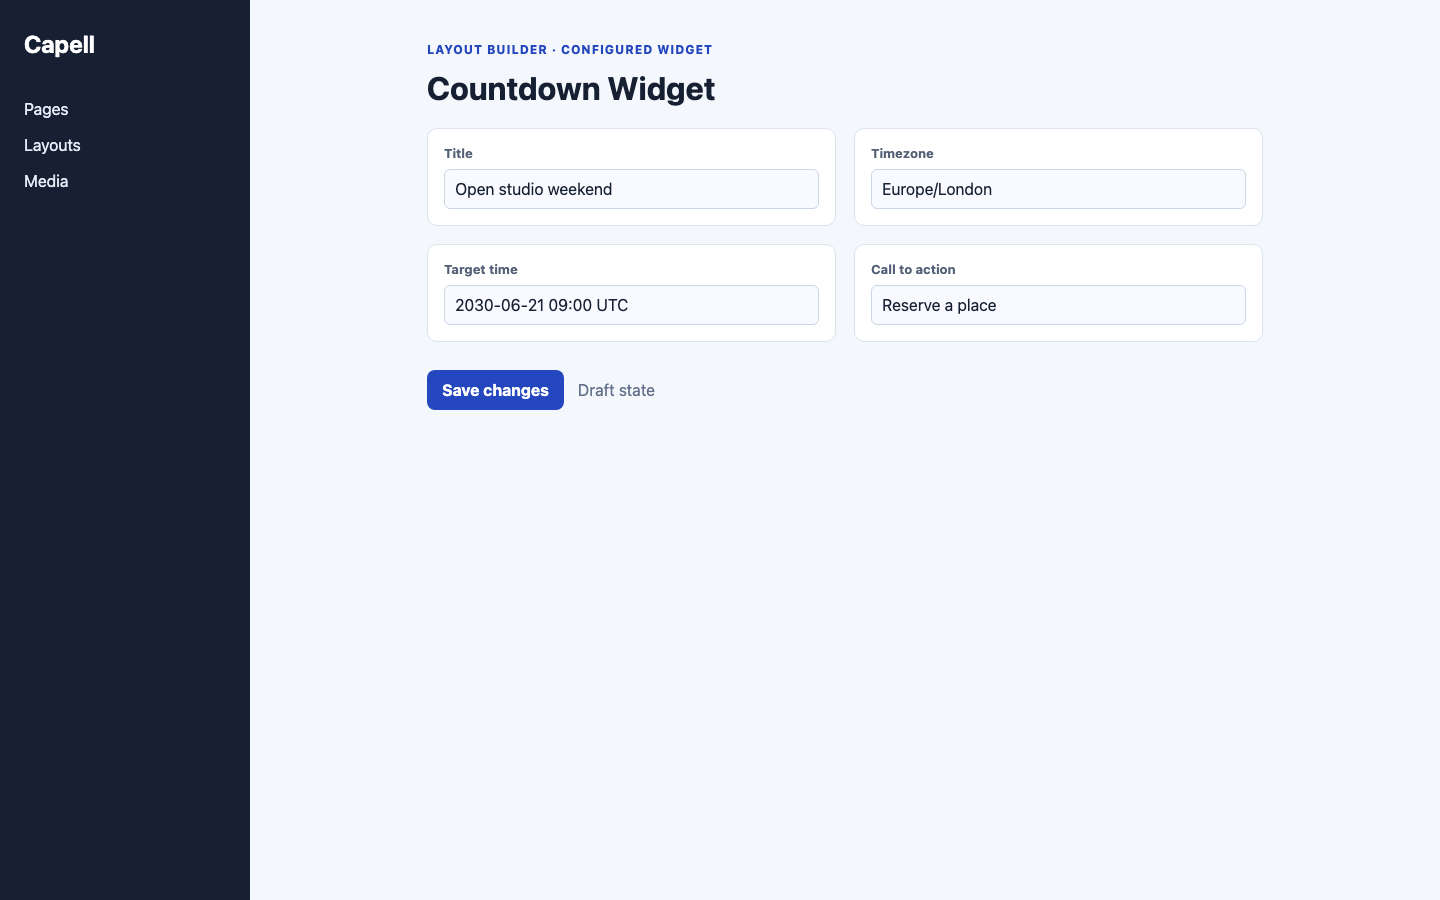
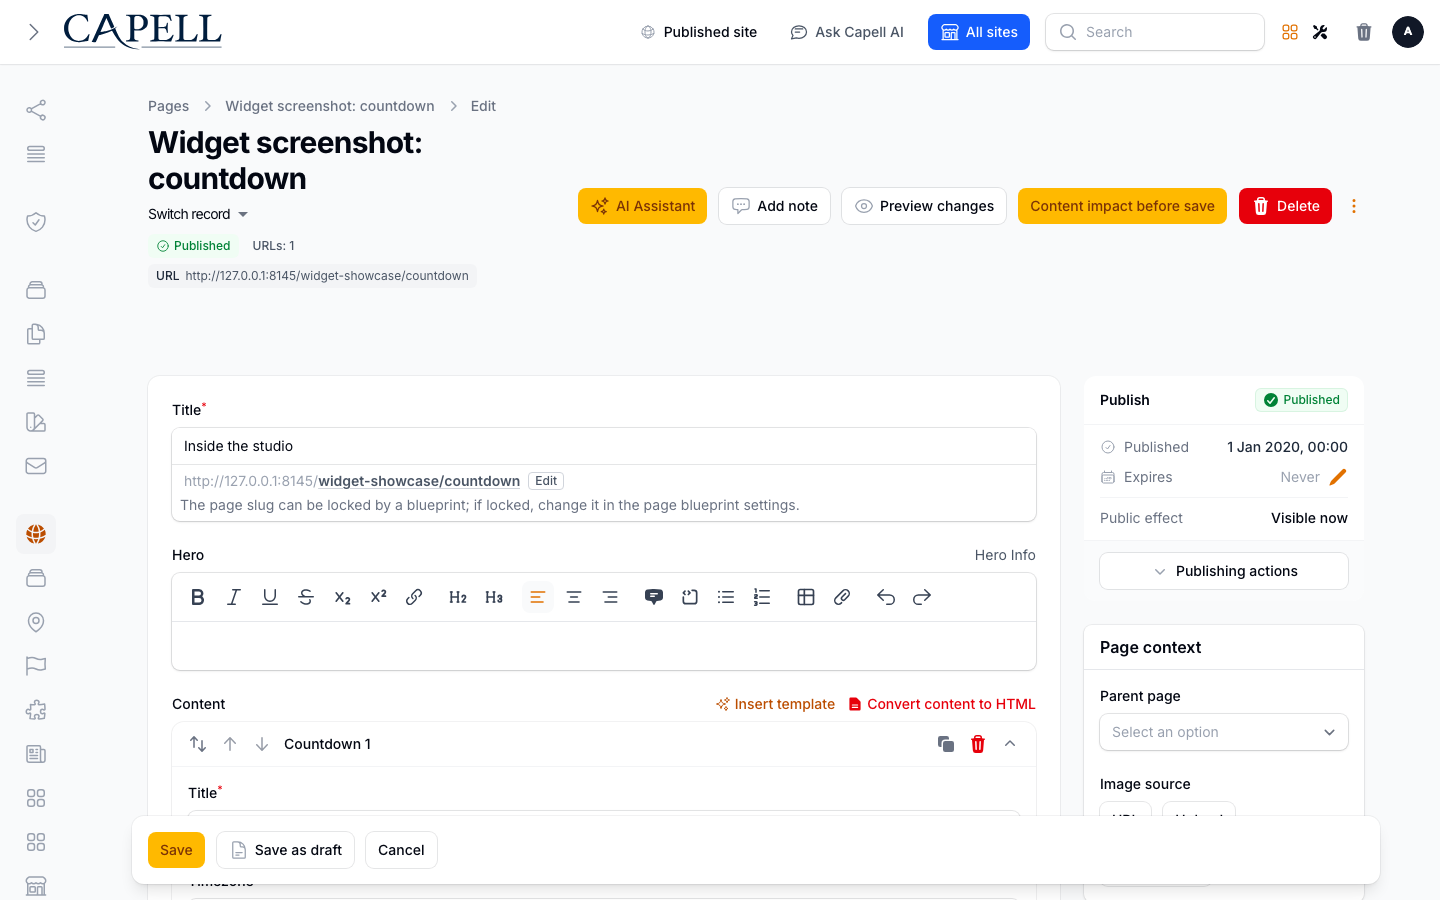
Release v1.1.0-beta.43

diff --git a/resources/dist/widget.js b/resources/dist/widget.js
@@ -1,4 +1,4 @@
-document.querySelectorAll('[data-capell-countdown]').forEach((root) => {
+document.querySelectorAll('[data-capell-widget-countdown]').forEach((root) => {
     const target = Date.parse(root.dataset.target)
     let announcedMinute = null
     let timer

diff --git a/tests/Feature/WidgetCountdownTest.php b/tests/Feature/WidgetCountdownTest.php
@@ -1,10 +1,14 @@
 <?php
 
 declare(strict_types=1);
+use Capell\Frontend\Actions\AssertPublicHtmlContainsNoAuthoringSurfaceAction;
+use Capell\Frontend\Support\Security\PublicHtmlSafetyInspector;
 use Capell\WidgetCountdown\Data\CountdownInputData;
+use Capell\WidgetCountdown\Data\CountdownRenderData;
 use Capell\WidgetCountdown\Health\WidgetCountdownHealthCheck;
 use Capell\WidgetCountdown\Providers\WidgetCountdownServiceProvider;
 use Illuminate\Validation\ValidationException;
+use Symfony\Component\HttpFoundation\Response;
 
 beforeEach(function (): void {
     $this->app->register(WidgetCountdownServiceProvider::class);
@@ -13,5 +17,28 @@ it('registers healthy package surfaces', function (): void {
     expect(WidgetCountdownHealthCheck::passed())->toBeTrue();
 });
 it('requires an IANA timezone normalized target and safe cta', function (): void {
-    expect(fn () => CountdownInputData::validateAndCreate(['title' => 'Launch', 'timezone' => 'Mars/Olympus', 'targetUtc' => 'tomorrow', 'expiredLabel' => 'Live', 'ctaUrl' => 'javascript:alert(1)']))->toThrow(ValidationException::class);
+    expect(fn (): CountdownInputData => CountdownInputData::validateAndCreate(['title' => 'Launch', 'timezone' => 'Mars/Olympus', 'targetUtc' => 'tomorrow', 'expiredLabel' => 'Live', 'ctaUrl' => 'javascript:alert(1)']))->toThrow(ValidationException::class);
+});
+it('renders public countdown markup accepted by the public HTML safety action', function (): void {
+    $renderData = new CountdownRenderData(
+        title: 'Launch',
+        timezone: 'Europe/London',
+        targetUtc: '2026-12-01T12:00:00+00:00',
+        expiredLabel: 'Started',
+    );
+    $html = view('capell-widget-countdown::widget', ['renderData' => $renderData])->render();
+
+    expect($html)
+        ->toContain('data-capell-widget-countdown')
+        ->not->toContain('data-capell-countdown');
+
+    AssertPublicHtmlContainsNoAuthoringSurfaceAction::run(new Response(
+        '<!doctype html><html><body>' . $html . '</body></html>',
+        Response::HTTP_OK,
+        ['Content-Type' => 'text/html'],
+    ));
+
+    expect(resolve(PublicHtmlSafetyInspector::class)->containsAuthoringSurface(
+        '<section data-capell-countdown data-target="2026-12-01T12:00:00+00:00">Countdown</section>',
+    ))->toBeTrue();
 });

diff --git a/resources/views/widget.blade.php b/resources/views/widget.blade.php
@@ -1,7 +1,7 @@
 @php /** @var \Capell\WidgetCountdown\Data\CountdownRenderData $renderData */ @endphp
 <section
     class="capell-countdown"
-    data-capell-countdown
+    data-capell-widget-countdown
     data-target="{{ $renderData->targetUtc }}"
     data-expired-label="{{ $renderData->expiredLabel }}"
 >

diff --git a/README.md b/README.md
@@ -10,8 +10,6 @@ Countdown adds a Layout Builder widget for a scheduled target using an IANA time
 
 Editors set the target, timezone, labels, and optional call to action in Layout Builder, and visitors see the remaining time on the public page.
 
-Evidence: [`src/Filament/CountdownWidget.php`](src/Filament/CountdownWidget.php), [`resources/views/widget.blade.php`](resources/views/widget.blade.php), [`tests/Feature/WidgetCountdownTest.php`](tests/Feature/WidgetCountdownTest.php), [`capell.json`](capell.json).
-
 Status details:
 
 - Status: Available
@@ -27,19 +25,17 @@ Status details:
 
 **For teams:** Campaign and event teams can publish a clear deadline without hand-calculating visitor-facing timezone differences.
 
-Evidence: [`src/Providers/WidgetCountdownServiceProvider.php`](src/Providers/WidgetCountdownServiceProvider.php), [`src/Filament/CountdownWidget.php`](src/Filament/CountdownWidget.php), [`tests/Feature/WidgetCountdownTest.php`](tests/Feature/WidgetCountdownTest.php), [`resources/views/widget.blade.php`](resources/views/widget.blade.php).
-
 ## Screens And Workflow
 
 Screenshot contract: `docs/screenshots.json`.
 
 ![Countdown Widget extension card](docs/screenshots/extension-card.svg)
 
-![Illustrative countdown public output preview](docs/screenshots/countdown-public-output.png)
+![Countdown public output](docs/screenshots/countdown-public-output.png)
 
 - Countdown Widget extension card (marketplace, required evidence).
 - Countdown fields in Layout Builder (admin, supplementary evidence).
-- Illustrative countdown public output preview (frontend, required evidence).
+- Countdown public output (frontend, required evidence).
 - Countdown fields in Layout Builder with admin sidebar menu open (admin, supplementary evidence).
 
 ## Technical Shape
@@ -108,7 +104,7 @@ This package has no schema impact. It extends Capell through `content-widget` co
 ## Quick Start
 
 1. Install the package: `composer require capell-app/widget-countdown`.
-2. Open `/screenshot-fixtures/catalogue/widget-countdown/countdown-public-output` and confirm the public output renders without admin state.
+2. Open the package detail or install-intent surface and confirm the Countdown Widget extension card is present.
 
 ## Next Steps
 
@@ -121,6 +117,5 @@ This package has no schema impact. It extends Capell through `content-widget` co
 - [Capell documentation design system](../../docs/DESIGN_SYSTEM.md)
 - [Capell and package ERD notes](../../docs/erd/capell-and-package-erds.md)
 - Related packages: [Layout Builder](../layout-builder/README.md).
-- Focused tests: `vendor/bin/pest packages/widget-countdown/tests --configuration=phpunit.xml`.
 
 <!-- prettier-ignore-end -->
